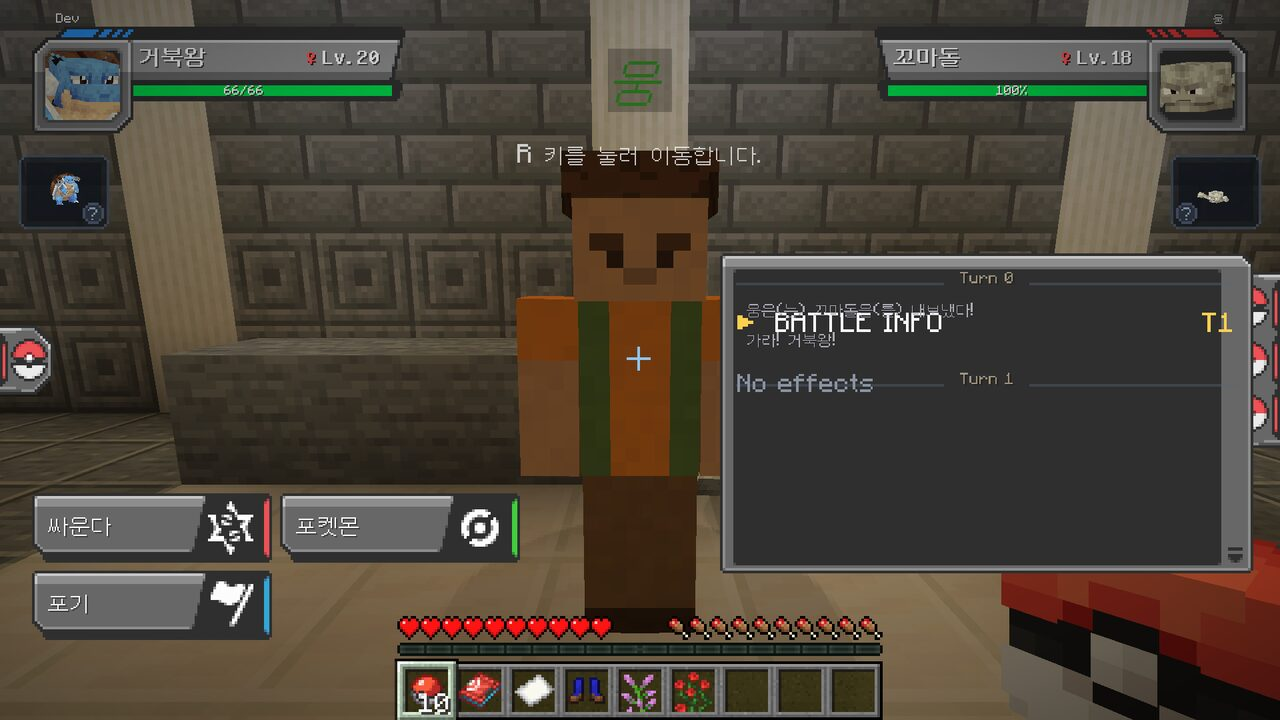
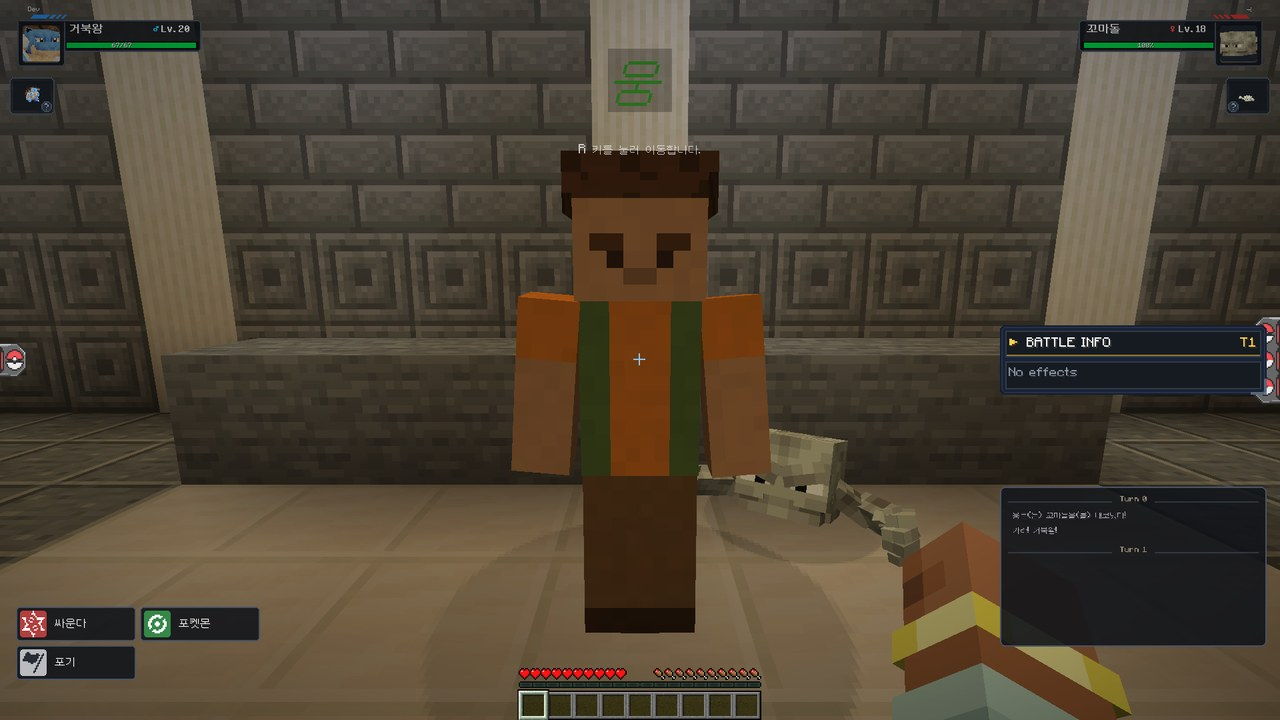
G 메뉴 작은 버튼·칸 크기 조정, 배틀·정보창 실제 화면 사진
Claude-Session: https://claude.ai/code/session_01KfYadX4RQW6s5szTxe11BK

diff --git a/mod/src/client/java/com/pokeserver/client/MenuScreen.java b/mod/src/client/java/com/pokeserver/client/MenuScreen.java
@@ -24,15 +24,15 @@ public class MenuScreen extends Screen {
                     new Tile("도감", "cobblemon:pokedex_red", "client:dex"))),
             new Cat("간편 메뉴", "minecraft:book", List.of(
                     new Tile("튜토리얼", "minecraft:book", "tutorial"),
-                    new Tile("기본 명령어", "minecraft:paper", "help"),
-                    new Tile("휴지통", "minecraft:cauldron", "trash"))),
+                    new Tile("기본 명령어", "minecraft:oak_sign", "help"),
+                    new Tile("휴지통", "minecraft:lava_bucket", "trash"))),
             new Cat("워프", "minecraft:ender_pearl", List.of(
                     new Tile("광장", "minecraft:beacon", "warp:hall"),
                     new Tile("야생", "minecraft:grass_block", "warp:wild"),
                     new Tile("농장", "minecraft:wheat", "warp:farm"),
                     new Tile("체육관", "minecraft:red_banner", "warp:gym"))));
     /** 왼쪽 아래 작은 버튼 (참고 사진). */
-    static final List<Tile> SMALL = List.of(new Tile("명령어", "minecraft:paper", "help"), new Tile("휴지통", "minecraft:cauldron", "trash"));
+    static final List<Tile> SMALL = List.of(new Tile("명령어", "minecraft:oak_sign", "help"), new Tile("휴지통", "minecraft:lava_bucket", "trash"));
     static int cat;                       // 마지막으로 고른 분류 (다시 열어도 유지)
 
     private final long balance;
@@ -63,14 +63,14 @@ public class MenuScreen extends Screen {
     private int catY(int i) { return 52 + i * 38; }
     private int cx() { return side() + 22; }                                 // 오른쪽 내용 시작
     private int cw() { return Math.min(width - cx() - 22, 460); }
-    static final int TILE = 64, GAP = 8;
+    static final int TILE = 78, GAP = 8, SW = 58;   // SW: 왼쪽 아래 작은 버튼 폭
     private int perRow() { return Math.max(1, (cw() + GAP) / (TILE + GAP)); }
     private List<Tile> tiles() { return CATS.get(cat).tiles(); }
     private int tileX(int i) { return cx() + (i % perRow()) * (TILE + GAP); }
     private int tileY(int i) { return 26 + (i / perRow()) * (TILE + GAP); }
-    private int cardY() { return 26 + 2 * (TILE + GAP) + 4; }                // 칸은 두 줄 자리를 비워 둠 (분류를 바꿔도 카드가 안 움직이게)
+    private int cardY() { return 26 + TILE + 14; }                           // 분류마다 칸은 한 줄 (가장 많은 워프 4칸)
     private int noticeY() { return cardY() + 84; }
-    private int smallX(int i) { return 18 + i * 54; }
+    private int smallX(int i) { return 18 + i * 66; }
     private int smallY() { return height - 64; }
 
     private void text(GuiGraphics g, String s, int x, int y, int color) { g.drawString(font, Theme.t(s), x, y, color, false); }
@@ -125,11 +125,11 @@ public class MenuScreen extends Screen {
     /** 왼쪽 아래 작은 버튼: 위에 이름, 아래 아이콘 (참고 사진). */
     private void small(GuiGraphics g, int i, int mx, int my) {
         int x = smallX(i), y = smallY();
-        boolean hov = mx >= x && mx < x + 46 && my >= y && my < y + 46;
+        boolean hov = mx >= x && mx < x + SW && my >= y && my < y + 46;
         float h = anim.to("s" + i, hov);
-        Theme.panel(g, x, y, x + 46, y + 46, Theme.mix(0xC0181B22, 0xF0343A47, h), Theme.mix(0xFF2A303C, Theme.ACCENT, h));
-        center(g, SMALL.get(i).label(), x + 23, y + 7, Theme.mix(Theme.SUBTEXT, Theme.TEXT, h));
-        g.renderItem(Shop.stack(SMALL.get(i).icon()), x + 15, y + 22);
+        Theme.panel(g, x, y, x + SW, y + 46, Theme.mix(0xC0181B22, 0xF0343A47, h), Theme.mix(0xFF2A303C, Theme.ACCENT, h));
+        center(g, SMALL.get(i).label(), x + SW / 2, y + 7, Theme.mix(Theme.SUBTEXT, Theme.TEXT, h));
+        g.renderItem(Shop.stack(SMALL.get(i).icon()), x + SW / 2 - 8, y + 22);
     }
 
     private void tile(GuiGraphics g, int i, int mx, int my) {
@@ -191,7 +191,7 @@ public class MenuScreen extends Screen {
             if (mx >= 16 && mx < side() - 16 && my >= catY(i) && my < catY(i) + 30) { cat = i; return true; }
         }
         for (int i = 0; i < SMALL.size(); i++) {
-            if (mx >= smallX(i) && mx < smallX(i) + 46 && my >= smallY() && my < smallY() + 46) { act(SMALL.get(i).action()); return true; }
+            if (mx >= smallX(i) && mx < smallX(i) + SW && my >= smallY() && my < smallY() + 46) { act(SMALL.get(i).action()); return true; }
         }
         for (int i = 0; i < tiles().size(); i++) {
             int x = tileX(i), y = tileY(i);
